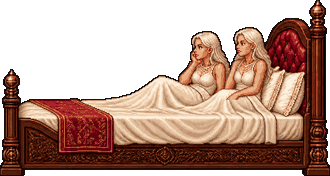
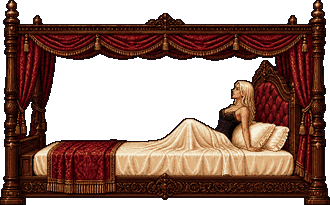
The master suite: one woman, living in the room rather than reacting to it
One blonde in black lingerie instead of two in white, and smaller - her head is now
about a fourteenth of the bed's length rather than a twelfth, which is what put her
beside CHAD's own proportions. The model gave the bed a canopy this time and it suits
it, so the sprite grew to 165x102.

She no longer reacts to CHAD at all. The proximity trigger and the whole greeting pose
set are gone: walking up to the bed made it feel like tripping a switch, and she was
talking every few seconds, which reads as a chatbot rather than as company. She now
drifts across six chaining poses - sitting against the headboard, back on her hands,
onto an elbow, onto her side playing with her hair, onto her back, onto her front - and
speaks once every 23-50s. Measured over 150 simulated seconds: 19 pose changes across 5
poses, 5 lines, silent 86% of the time.

The bubble was a plain white rectangle sitting on top of the game. It now has chamfered
corners, a dark rule, a dropped shadow, and it fades in fast, out slow and rises a
couple of pixels as it goes.

Two build fixes the checkers caught:
  * the generations land within a pixel of each other but not always ON it, and a 1px
    jiggle in an otherwise perfectly still bed is more obvious than a large one. Each
    pose is now translation-aligned on the furniture band before compositing.
  * base_junction() searches only the lower quarter. Unconstrained it found 57% of the
[…]

diff --git a/js/hub.js b/js/hub.js
@@ -104,13 +104,10 @@ function rigFrame(r) {
 // measured off the plate: the firebox opening is 1548-1618, hearth at y 168
 const FIREPLACE = { x: 1564, y: 164 };
 const OVERMANTEL = [1528, 48, 66, 55];   // the mirror glass above it
-// One strip like the gym rigs, so the bed cannot shift between frames. 0-2 are the two
-// of them turning over in their sleep; 3 is one propped up on an elbow, which is the
-// pose the room holds while CHAD is standing there.
+// One generation per pose - see the bed section in CLAUDE.md for why a strip could not
+// do this. She does not react to CHAD; she is just someone living in the room.
 export const BED_X = 1822;   // centred in front of the corner glass
-const BED = { x: BED_X, y: WALL_BASE + 2, w: 165, h: 88 };
-const BED_WAKE = 4;   // the last pose: sitting up, beckoning him over
-const NEAR_BED = 120;    // he does not have to be on top of it for them to notice
+const BED = { x: BED_X, y: WALL_BASE + 2, w: 165, h: 102 };
 
 // Sprites in the wall plane. Sizes mirror LAIR in tools/process_props.py; y is the
 // bottom edge and art is centred on x.
@@ -697,94 +694,112 @@ function drawTank(ctx, camX) {
 // They are asleep until CHAD walks into the room, then one of them props herself up and
 // says something. IDLE lines go round on their own; WAKE lines only fire on arrival, so
 // walking in always gets a reaction rather than whatever the cycle happened to be on.
+// She is not waiting for him and does not react to him - she is just someone living in
+// the room. Poses drift on their own and a line goes off now and then with a long gap
+// either side of it; a line every few seconds reads as a chatbot, not as company.
 const IDLE_LINES = [
-  'chaaad... we are bored',
   'you work too hard...',
   'it is four in the morning',
   'the city can wait',
-  'are you still hitting that bag',
+  'still hitting that bag?',
   'you already won, big guy',
   'the bag will still be there',
   'one more act, you said',
-];
-const WAKE_LINES = [
-  'there you are',
-  'done training already?',
-  'come back, chad',
-  'we kept it warm',
-  'you are all sweaty again',
-  'five more minutes. with us',
+  'come back to bed, chad',
+  'mm...',
 ];
 
-// Poses 0-3 are the two of them lounging, 4 is sitting up and beckoning. They do NOT
-// run as a cycle: a fixed loop reads as an animation flicking over rather than two
-// people waiting. One pose is held for several seconds and then the state steps to a
-// NEIGHBOURING pose, so the change is always small and the timing is never regular.
-const SLEEP_POSES = 4;
-const bed = { pose: 0, hold: 260, awake: 0, line: null, lineT: 0, next: 240, said: -1 };
+// Six poses that chain: sitting against the headboard, down onto an elbow, onto her
+// side, onto her back, onto her front. The room steps between NEIGHBOURS only, so the
+// change is always small; a fixed loop over all six reads as an animation flicking over.
+const BED_POSES = 6;
+const LINE_HOLD = 260;             // ~4.3s on screen
+const LINE_GAP = [1400, 3000];     // ~23-50s between lines
+const POSE_HOLD = [200, 520];      // ~3.3-8.7s per pose
+
+const bed = { pose: 0, hold: 300, line: null, lineT: 0, next: 900, said: -1 };
 
 function resetBed() {
-  bed.pose = 0; bed.hold = 260; bed.awake = 0;
-  bed.line = null; bed.lineT = 0; bed.next = 240; bed.said = -1;
+  bed.pose = irand(0, BED_POSES - 1);
+  bed.hold = irand(...POSE_HOLD);
+  bed.line = null;
+  bed.lineT = 0;
+  bed.next = irand(...LINE_GAP);
+  bed.said = -1;
 }
 
-function say(list) {
-  let i = irand(0, list.length - 1);
-  if (i === bed.said) i = (i + 1) % list.length;   // never the same line twice running
+function say() {
+  let i = irand(0, IDLE_LINES.length - 1);
+  if (i === bed.said) i = (i + 1) % IDLE_LINES.length;  // never the same line twice running
   bed.said = i;
-  bed.line = list[i];
-  bed.lineT = 280;
+  bed.line = IDLE_LINES[i];
+  bed.lineT = LINE_HOLD;
 }
 
 function updateBed() {
   if (bed.lineT > 0) bed.lineT--;
-  const near = Math.abs(G.player.x - BED.x) < NEAR_BED;
-  if (near && bed.awake === 0) { say(WAKE_LINES); bed.next = 340; }   // he just walked in
-  bed.awake = near ? 150 : Math.max(0, bed.awake - 1);
   if (--bed.hold <= 0) {
     // a step to an adjacent pose, never a jump across the set
-    const dir = Math.random() < 0.5 ? -1 : 1;
-    bed.pose = clamp(bed.pose + dir, 0, SLEEP_POSES - 1);
-    bed.hold = irand(260, 620);
+    bed.pose = clamp(bed.pose + (Math.random() < 0.5 ? -1 : 1), 0, BED_POSES - 1);
+    bed.hold = irand(...POSE_HOLD);
   }
-  // she keeps talking while he is standing there - one line and then silence made
-  // walking up feel like a trigger rather than someone actually in the room
   if (--bed.next <= 0) {
-    bed.next = near ? irand(220, 340) : irand(360, 620);
-    say(near ? WAKE_LINES : IDLE_LINES);
+    bed.next = irand(...LINE_GAP);
+    say();
   }
 }
 
-const bedFrame = () => 'lair_bed_' + (bed.awake > 0 ? BED_WAKE : bed.pose);
+const bedFrame = () => 'lair_bed_' + bed.pose;
 
 // A speech bubble in the wall plane, so CHAD passes in front of it like everything else.
-function drawBubble(ctx, cx, bottom, text) {
-  const s = 1, pad = 4;
-  const tw = textWidth(text, s);
-  const w = tw + pad * 2, h = 7 + pad * 2;
-  const x = Math.round(clamp(cx - w / 2, 2, W - w - 2)), y = Math.round(bottom - h - 5);
-  ctx.fillStyle = 'rgba(250,246,238,0.94)';
-  ctx.fillRect(x + 1, y, w - 2, h);
-  ctx.fillRect(x, y + 1, w, h - 2);
-  ctx.beginPath();                       // the tail, pointing down at whoever spoke
-  ctx.moveTo(Math.round(cx) - 3, y + h);
-  ctx.lineTo(Math.round(cx) + 3, y + h);
-  ctx.lineTo(Math.round(cx), y + h + 5);
+// Chamfered corners, a dark rule and a dropped shadow: a plain white rectangle reads as
+// debug text sitting on top of the game rather than something in the room.
+function drawBubble(ctx, cx, bottom, text, a) {
+  const pad = 5, tail = 5;
+  const w = textWidth(text, 1) + pad * 2, h = 7 + pad * 2;
+  const x = Math.round(clamp(cx - w / 2, 3, W - w - 3)), y = Math.round(bottom - h - tail);
+  const tx = Math.round(clamp(cx, x + 6, x + w - 6));
+
+  const body = (dx, dy, col) => {
+    ctx.fillStyle = col;
+    ctx.fillRect(x + dx + 1, y + dy, w - 2, h);          // chamfer: 1px off each corner
+    ctx.fillRect(x + dx, y + dy + 1, w, h - 2);
+    ctx.beginPath();
+    ctx.moveTo(tx + dx - 3, y + dy + h - 1);
+    ctx.lineTo(tx + dx + 4, y + dy + h - 1);
+    ctx.lineTo(tx + dx, y + dy + h + tail);
+    ctx.closePath();
+    ctx.fill();
+  };
+
+  ctx.save();
+  ctx.globalAlpha = a * 0.35;
+  body(1, 2, '#0c0812');                                  // dropped shadow
+  ctx.globalAlpha = a;
+  body(0, 0, '#241c2e');                                  // dark rule...
+  ctx.fillStyle = '#f6efdd';                              // ...with the paper inside it
+  ctx.fillRect(x + 2, y + 1, w - 4, h - 2);
+  ctx.fillRect(x + 1, y + 2, w - 2, h - 4);
+  ctx.beginPath();
+  ctx.moveTo(tx - 2, y + h - 1);
+  ctx.lineTo(tx + 3, y + h - 1);
+  ctx.lineTo(tx, y + h + tail - 2);
   ctx.closePath();
   ctx.fill();
-  drawText(ctx, text, x + pad, y + pad, '#2a2030', s);
+  drawText(ctx, text, x + pad, y + pad, '#2a2030', 1);
+  ctx.restore();
 }
 
 function drawBed(ctx, camX) {
-  const img = artFor({ art: bedFrame(), w: BED.w, h: BED.h });
-  drawFixtureArt(ctx, camX, BED, img);
+  drawFixtureArt(ctx, camX, BED, artFor({ art: bedFrame(), w: BED.w, h: BED.h }));
   if (bed.lineT <= 0 || !bed.line) return;
   const x = BED.x - camX;
-  if (x < -80 || x > W + 80) return;
-  ctx.save();
-  ctx.globalAlpha = Math.min(1, bed.lineT / 24);
-  drawBubble(ctx, x + 22, BED.y - BED.h + 6, bed.line);
-  ctx.restore();
+  if (x < -90 || x > W + 90) return;
+  // fades in fast and out slow, and rises a couple of pixels as it goes
+  const inA = Math.min(1, (LINE_HOLD - bed.lineT) / 6);
+  const a = Math.min(inA, Math.min(1, bed.lineT / 30));
+  const rise = Math.round((1 - Math.min(1, (LINE_HOLD - bed.lineT) / 10)) * 3);
+  drawBubble(ctx, x + 46, BED.y - BED.h + 4 + rise, bed.line, a);   // over her, not the bed's centre
 }
 
 // ---------------------------------------------------------------- the pets

diff --git a/js/main.js b/js/main.js
@@ -935,15 +935,26 @@ if (autoMode) {
       // both pets, drawing themselves, and facing the way they are walking
       t('hub-pets-present', G.actors.length === 2
         && G.actors.every((a) => typeof a.draw === 'function'));
-      // the master suite: they sleep until he walks in, then one sits up and speaks
-      G.player.x = 900; step(200);
-      t('hub-bed-sleeps', !hubBed().awake);
-      G.player.x = BED_X - 80; step(4);
-      t('hub-bed-wakes', hubBed().awake > 0 && !!hubBed().line);
-      const saidOnArrival = hubBed().line;
-      G.player.x = 900; step(200);
-      t('hub-bed-settles', hubBed().awake === 0);
-      t('hub-bed-line-was-a-greeting', typeof saidOnArrival === 'string' && saidOnArrival.length > 0);
+      // the master suite: she shifts about on her own and speaks now and then. She does
+      // NOT react to him, so walking up must change nothing.
+      {
+        const poses = new Set();
+        let lineFrames = 0, changes = 0, last = hubBed().pose;
+        G.player.x = 900;
+        for (let i = 0; i < 400; i++) {
+          step(15);
+          poses.add(hubBed().pose);
+          if (hubBed().lineT > 0) lineFrames++;
+          if (hubBed().pose !== last) { changes++; last = hubBed().pose; }
+        }
+        t('hub-bed-shifts-about', poses.size >= 3 && changes >= 3);
+        t('hub-bed-poses-are-adjacent-steps', [...poses].every((p) => p >= 0 && p < 6));
+        // a line now and then, not a running commentary: well under half the time
+        t('hub-bed-speaks-with-pauses', lineFrames > 0 && lineFrames < 400 * 0.45);
+        const before = hubBed().pose;
+        G.player.x = BED_X - 60; step(6);
+        t('hub-bed-ignores-him', hubBed().pose === before);
+      }
       t('hub-room-is-four-screens', G.stage.width === 1920 && G.camMax === 1920 - W);
       // the map panel: cursor moves, a locked act refuses, an unlocked one starts
       G.unlockedStage = 0;
@@ -1308,7 +1319,7 @@ if (autoMode) {
   } else if (autoMode.startsWith('hub')) {
     // ?auto=hub[-<fixture id>] parks CHAD at that fixture with its panel open, plus
     // hub-bag (mid-punch), hub-window (the bag framed against the sunset) and hub-bed
-    // (close enough to the master suite that they wake up and say something).
+    // (standing in the master suite while she shifts about and says something).
     enterHub(true);
     G.unlockedStage = parseInt(params.get('unlocked') || '2', 10) || 0;
     G.fade = 0;
@@ -1321,8 +1332,10 @@ if (autoMode) {
     } else if (autoMode === 'hub-window') {
       G.player.x = 1000; G.player.y = 232; step(30);
     } else if (autoMode === 'hub-bed') {
-      // the bed is proximity, not a fixture: no prompt, they just notice him
-      G.player.x = BED_X - 90; G.player.y = 236; step(40);
+      // not a fixture and not a reaction - just park him there and let her talk
+      G.player.x = BED_X - 110; G.player.y = 236;
+      hubBed().line = 'you work too hard...'; hubBed().lineT = 200;
+      step(20);
     } else if (f) {
       G.player.x = f.x; step(3);
       debugPress('up'); step(2); debugRelease('up'); step(20);

diff --git a/js/assets.js b/js/assets.js
@@ -26,12 +26,13 @@ const FILES = {
   lair_portrait: 'assets/lair/portrait.png',
   lair_bag_chain: 'assets/lair/bag_chain.png',
   lair_gloves: 'assets/lair/gloves.png',
-  // the master suite: one generation per pose, 4 is sitting up and beckoning
+  // the master suite: one generation per pose, chaining from sitting up to lying down
   lair_bed_0: 'assets/lair/bed_0.png',
   lair_bed_1: 'assets/lair/bed_1.png',
   lair_bed_2: 'assets/lair/bed_2.png',
   lair_bed_3: 'assets/lair/bed_3.png',
   lair_bed_4: 'assets/lair/bed_4.png',
+  lair_bed_5: 'assets/lair/bed_5.png',
   lair_bed_fire: 'assets/lair/bed_fire.png',
   lair_bed_rug: 'assets/lair/bed_rug.png',
   lair_bed_wardrobe: 'assets/lair/bed_wardrobe.png',

diff --git a/tools/build_lair_extras.py b/tools/build_lair_extras.py
@@ -83,17 +83,18 @@ def finish(img, colors=40):
 def base_junction(frame):
     """The row where the mattress meets the carved wooden base.
 
-    Found as the sharpest drop in row-mean luminance in the lower half: cream bedding
-    above, dark walnut below. It is a real horizontal edge in the art, which is what
-    makes it safe to cut along - the earlier attempt cut at an arbitrary fraction, went
-    straight through the drapery and left a visible line across the mattress.
+    The sharpest drop in row-mean luminance - cream bedding above, dark walnut below -
+    searched only in the LOWER QUARTER of the sprite. Unconstrained it picked 57% of the
+    height in one set of poses and 86% in the next; the base is always near the bottom,
+    and it is the base that matters because it is the biggest dark mass in the sprite and
+    the place shading drift shows up worst.
     """
     a = np.asarray(frame).astype(float)
     opaque = a[..., 3] > 128
     lum = a[..., 0] * .3 + a[..., 1] * .6 + a[..., 2] * .1
     rows = np.array([lum[y][opaque[y]].mean() if opaque[y].sum() > 10 else 0.0
                      for y in range(a.shape[0])])
-    lo, hi = int(a.shape[0] * .45), int(a.shape[0] * .9)
+    lo, hi = int(a.shape[0] * .70), int(a.shape[0] * .93)
     return lo + int(np.argmin(np.diff(rows)[lo:hi])) + 1
 
 
@@ -338,13 +339,25 @@ def build_bed():
     box = (int(xs.min()), int(ys.min()), int(xs.max()) + 1, int(ys.max()) + 1)
     frames = [f.crop(box) for f in keyed_frames]
 
+    # The generations land within a pixel of each other but not always ON it, and a 1px
+    # jiggle in a bed that is otherwise perfectly still is more obvious than a big one.
+    # Judged on the furniture band so her arms cannot drag the alignment.
+    band = int(frames[0].height * 0.55)
+    aligned = [frames[0]]
+    for f in frames[1:]:
+        dx, dy = best_shift(frames[0], f, band, limit=3)
+        canvas = Image.new("RGBA", frames[0].size, (0, 0, 0, 0))
+        canvas.paste(f, (dx, dy), f)
+        aligned.append(canvas)
+    frames = aligned
+
     # The poses agree on geometry but not on shading - the same pixel of the carved base
     # came back (48,8,4) in one pose and (114,48,21) in another, which on screen is the
     # woodwork brightening every time they move. A global exposure fit does not fix it
     # because the variation is local, so the base is taken from p0 for every frame. The
     # cut is at the mattress/base junction, a real horizontal edge in the art.
     cut = base_junction(frames[0])
-    print(f"  base from pose 0 below row {cut} of {frames[0].height} "
+    print(f"  carved base from pose 0 below row {cut} of {frames[0].height} "
           f"({round(100 * cut / frames[0].height)}%, the mattress/base edge)")
     fixed = [frames[0]]
     for f in frames[1:]:

diff --git a/tools/check_bed_anim.py b/tools/check_bed_anim.py
@@ -18,7 +18,7 @@ import numpy as np
 from PIL import Image
 
 OUT = "assets/lair/"
-FURNITURE_BAND = 0.82      # below this is the carved base - the mattress/base edge
+FURNITURE_BAND = 0.88      # below this is the carved base - the mattress/base edge
 
 
 def load():

diff --git a/CLAUDE.md b/CLAUDE.md
@@ -103,8 +103,9 @@ What works is ONE GENERATION PER POSE, each passed pose 0 as a reference with an
   the furniture;
 - the poses agree on geometry but *not* on shading (the same pixel of the base measured
   (48,8,4) and (114,48,21)), so the carved base is taken from pose 0 for every frame. The
-  cut is at the mattress/base junction found by luminance — a real edge. Cutting at an
-  arbitrary fraction is what left the seam;
+  cut is at the mattress/base junction found by luminance **searched only in the lower
+  quarter** — unconstrained it picked 57% of the height for one set of poses and 86% for
+  the next. Cutting at an arbitrary fraction is what left the seam;
 - `finish_set()` quantizes the whole set against ONE palette, the same rule
   `process_char.py` uses per character.
 
@@ -112,7 +113,12 @@ What works is ONE GENERATION PER POSE, each passed pose 0 as a reference with an
 `tools/check_bed_anim.py` measures whether the furniture moves and how far apart
 consecutive poses are — you cannot watch a sprite animate from here, so measure it.
 Poses the room steps between must be a PROGRESSION: unrelated poses changed 61-78% of the
-occupant area, which reads as a cut however long you hold it. The bed's frame 3 is the "awake"
+occupant area, which reads as a cut however long you hold it.
+
+The room's ambient life is **not** reactive. She shifts pose every ~8s on a random walk
+over neighbours and speaks once every ~30s, silent 86% of the time; nothing she does keys
+off where CHAD is standing. A proximity trigger made walking past feel like tripping a
+switch, and a line every few seconds reads as a chatbot rather than company. The bed's frame 3 is the "awake"
 pose, held while CHAD is within `NEAR_BED` — the sleepers are proximity-driven, not a
 `FIXTURES` entry, so there is no walk-up prompt.
 
